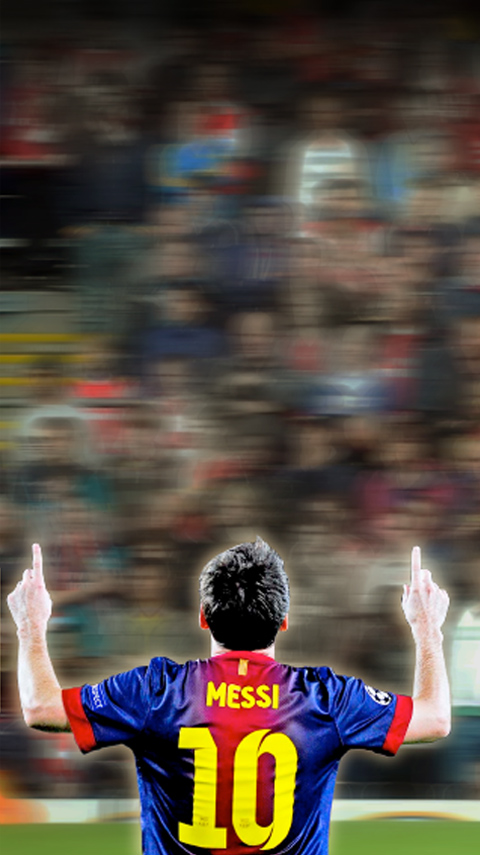
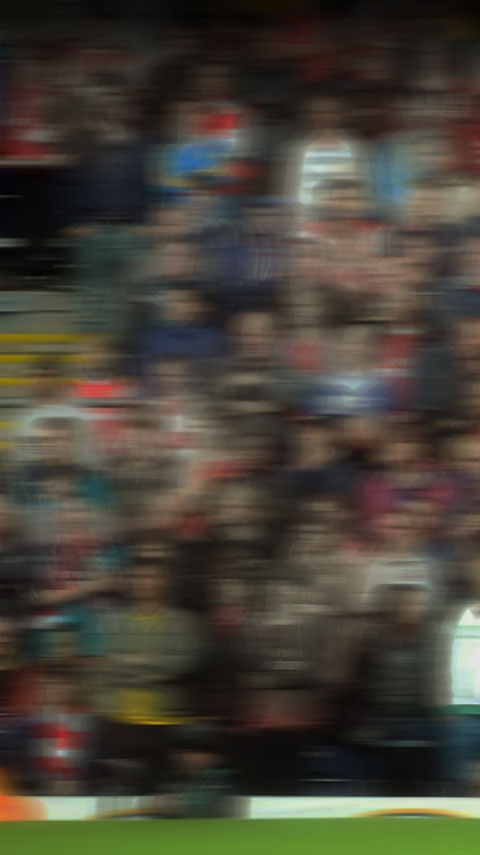
Refactoring html for landing page

Changed region(s): [[0.0, 0.6082, 1.0, 1.0], [0.3125, 0.669, 0.3438, 0.6994]]

diff --git a/data/html/index.html b/data/html/index.html
@@ -33,25 +33,39 @@
                     <img src="img/fcbarcelona-355.png" alt="FCBARCELONA Score Predictor">
                 </a>
 
-                <figure class="banner">
-                    <div data-alt="FCBARCELONA Score Predictor Banner" data-picture="">
-                        <div data-src="img/banner-480.jpg"></div>
-                        <div data-media="(min-width: 480px)" data-src="img/banner-480.jpg"></div>
-                        <div data-media="(min-width: 600px)" data-src="img/banner-600.jpg"></div>
-                        <div data-media="(min-width: 768px)" data-src="img/banner-1024.jpg"></div>
-                        <div data-media="(min-width: 1025px)" data-src="img/banner-1280.jpg"></div>
-                        <noscript><img src="img/banner-1024.png" alt="FCBARCELONA Score Predictor Banner" /></noscript>
-                        <!--[if (lt IE 9) & (!IEMobile)]>
-                            <div data-src="img/banner-1280.jpg"></div>
-                        <![endif]-->
-                    </div>
-
-
-                    <figcaption>
-                        Think you know football? <br> Predict the score and win big
-                        <a href="" class="cta">Start playing - it's free</a>
-                    </figcaption>
-                </figure>
+                <div  class="banner">
+                        <div data-alt="FCBARCELONA Score Predictor Banner" data-picture="">
+                            <div data-src="img/banner-480.jpg"></div>
+                            <div data-media="(min-width: 480px)" data-src="img/banner-480.jpg"></div>
+                            <div data-media="(min-width: 600px)" data-src="img/banner-600.jpg"></div>
+                            <div data-media="(min-width: 768px)" data-src="img/banner-1024.jpg"></div>
+                            <div data-media="(min-width: 1025px)" data-src="img/banner-1280.jpg"></div>
+                            <noscript><img src="img/banner-1024.png" alt="FCBARCELONA Score Predictor Banner" /></noscript>
+                            <!--[if (lt IE 9) & (!IEMobile)]>
+                                <div data-src="img/banner-1280.jpg"></div>
+                            <![endif]-->
+                        </div>
+                    <figure>
+                        <div class="banner-image-top">
+                            <div data-alt="FCBARCELONA Score Predictor Banner" data-picture="">
+                            <div data-src="img/banner-image-top-480.png"></div>
+                            <div data-media="(min-width: 480px)" data-src="img/banner-image-top-480.png"></div>
+                            <div data-media="(min-width: 600px)" data-src="img/banner-image-top-600.png"></div>
+                            <div data-media="(min-width: 768px)" data-src="img/banner-image-top-1024.png"></div>
+                            <div data-media="(min-width: 1025px)" data-src="img/banner-image-top-1280.png"></div>
+                            <noscript><img src="img/banner-image-top-1024.png" alt="FCBARCELONA Score Predictor Banner" /></noscript>
+                            <!--[if (lt IE 9) & (!IEMobile)]>
+                                <div data-src="img/banner-image-top-1280.png"></div>
+                            <![endif]-->
+                        </div>
+                        </div>
+                    
+                        <figcaption>
+                            Think you know football? <br> Predict the score and win big
+                            <a href="" class="cta">Start playing - it's free</a>
+                        </figcaption>
+                    </figure>
+                </div>
             
                 <div class="login-area clearfix">
                     <p>  

diff --git a/data/html/css/main.css b/data/html/css/main.css
@@ -102,6 +102,13 @@ header {
     width: 100%;
     height: auto;
 }
+.banner-image-top {
+    position: absolute;
+    left: 0;
+    bottom: 0;
+    width: 61.6em;
+    height: 49.9em;
+}
 .banner figcaption {
     position: absolute;
     top: 5.1em;
@@ -433,7 +440,7 @@ section[role="main"] .article-image-left:after {
     display: inline-block;
     z-index: 2;
 }
-.safari .article-image-left > div {
+.safari5 .article-image-left > div {
     margin-left: 3em;
 }
 .article-image-left figure {
@@ -445,7 +452,7 @@ section[role="main"] .article-image-left:after {
     display: inline;
     margin: 4.7em 0 0 -82.44%;
 }
-.safari .article-image-left figure img {
+.safari5 .article-image-left figure img {
     margin-left: 0;
 }
 
@@ -525,13 +532,18 @@ section[role="main"]  aside.ready-try {
    Media Queries
    ========================================================================== */
 
-@media only screen and (min-width: 320px) and (max-width :  767px) {
+@media only screen and (min-width: 320px) and (max-width:  767px) {
     .logo {
         top: 1.2em;
     }
     .logo img {
         width: 31em;
         height: 7.859em;
+    }
+    .banner-image-top {
+        margin: 0 3%;
+        width: 96%;
+        height: auto;
     }
 
     /***login-area***/
@@ -670,19 +682,24 @@ section[role="main"]  aside.ready-try {
 
 }
 
-@media screen and (min-width : 768px) and (max-width : 1024px) {
+@media screen and (min-width: 768px) and (max-width: 1024px) {
+    .banner-image-top {
+        width: 49.379em;
+        height: 40em;
+    }
     .banner figcaption {
         right: 1.0em;
         font: normal 3.6em/1.2 "ProximaNova-Bold", Helvetica, Arial;
     }
 }
-@media screen and (min-width : 768px) and (orientation: portrait) {
+@media screen and (min-width: 768px) and (orientation: portrait) {
+
     footer[role="contentinfo"] {
         font: normal 1.7em/1.2 "ProximaNova-Reg", Helvetica, Arial;
     }  
 }
 
-@media screen and (min-width : 1025px) {
+@media screen and (min-width: 1025px) {
     .login-with-facebook {
         max-width: 13em;
     }

diff --git a/data/html/js/main.js b/data/html/js/main.js
@@ -64,7 +64,7 @@ $(document).ready(function () {
     });
 
     if ( navigator.userAgent.indexOf(" Safari/") != -1 && navigator.userAgent.indexOf(" Version/5") != -1) {
-        $('body').addClass("safari");
+        $('body').addClass("safari5");
     }
 
 
@@ -98,7 +98,7 @@ $(document).ready(function () {
                 desktop: {
                     width:      1280,
                     base:       16,
-                    min:        15,
+                    min:        13,
                     max:        16,
                     breakpoint: 1025
                 }

diff --git a/data/html/css/ie.css b/data/html/css/ie.css
@@ -40,13 +40,18 @@
     width: 34.1em;
 }
 
-.lt-ie8 .article-image-left figure, .lt-ie8  .article-image-right figure {
-    float: left;
-    display: inline;
+.lt-ie8 .article-image-left figure {
+    float: none;
+    display: block;
+    margin-left: 0;
 }
 .lt-ie8 .article-image-right figure {
+    display: inline;
     float: right;
     right: 0;
+}
+.lt-ie8 .article-image-left figure img {
+    margin-left: 0;
 }
 
 .lt-ie8 .article-image-left > div, .lt-ie8 .article-image-right > div {
@@ -62,3 +67,5 @@
    padding: 0;
    padding-bottom: 3em;
 }
+
+
